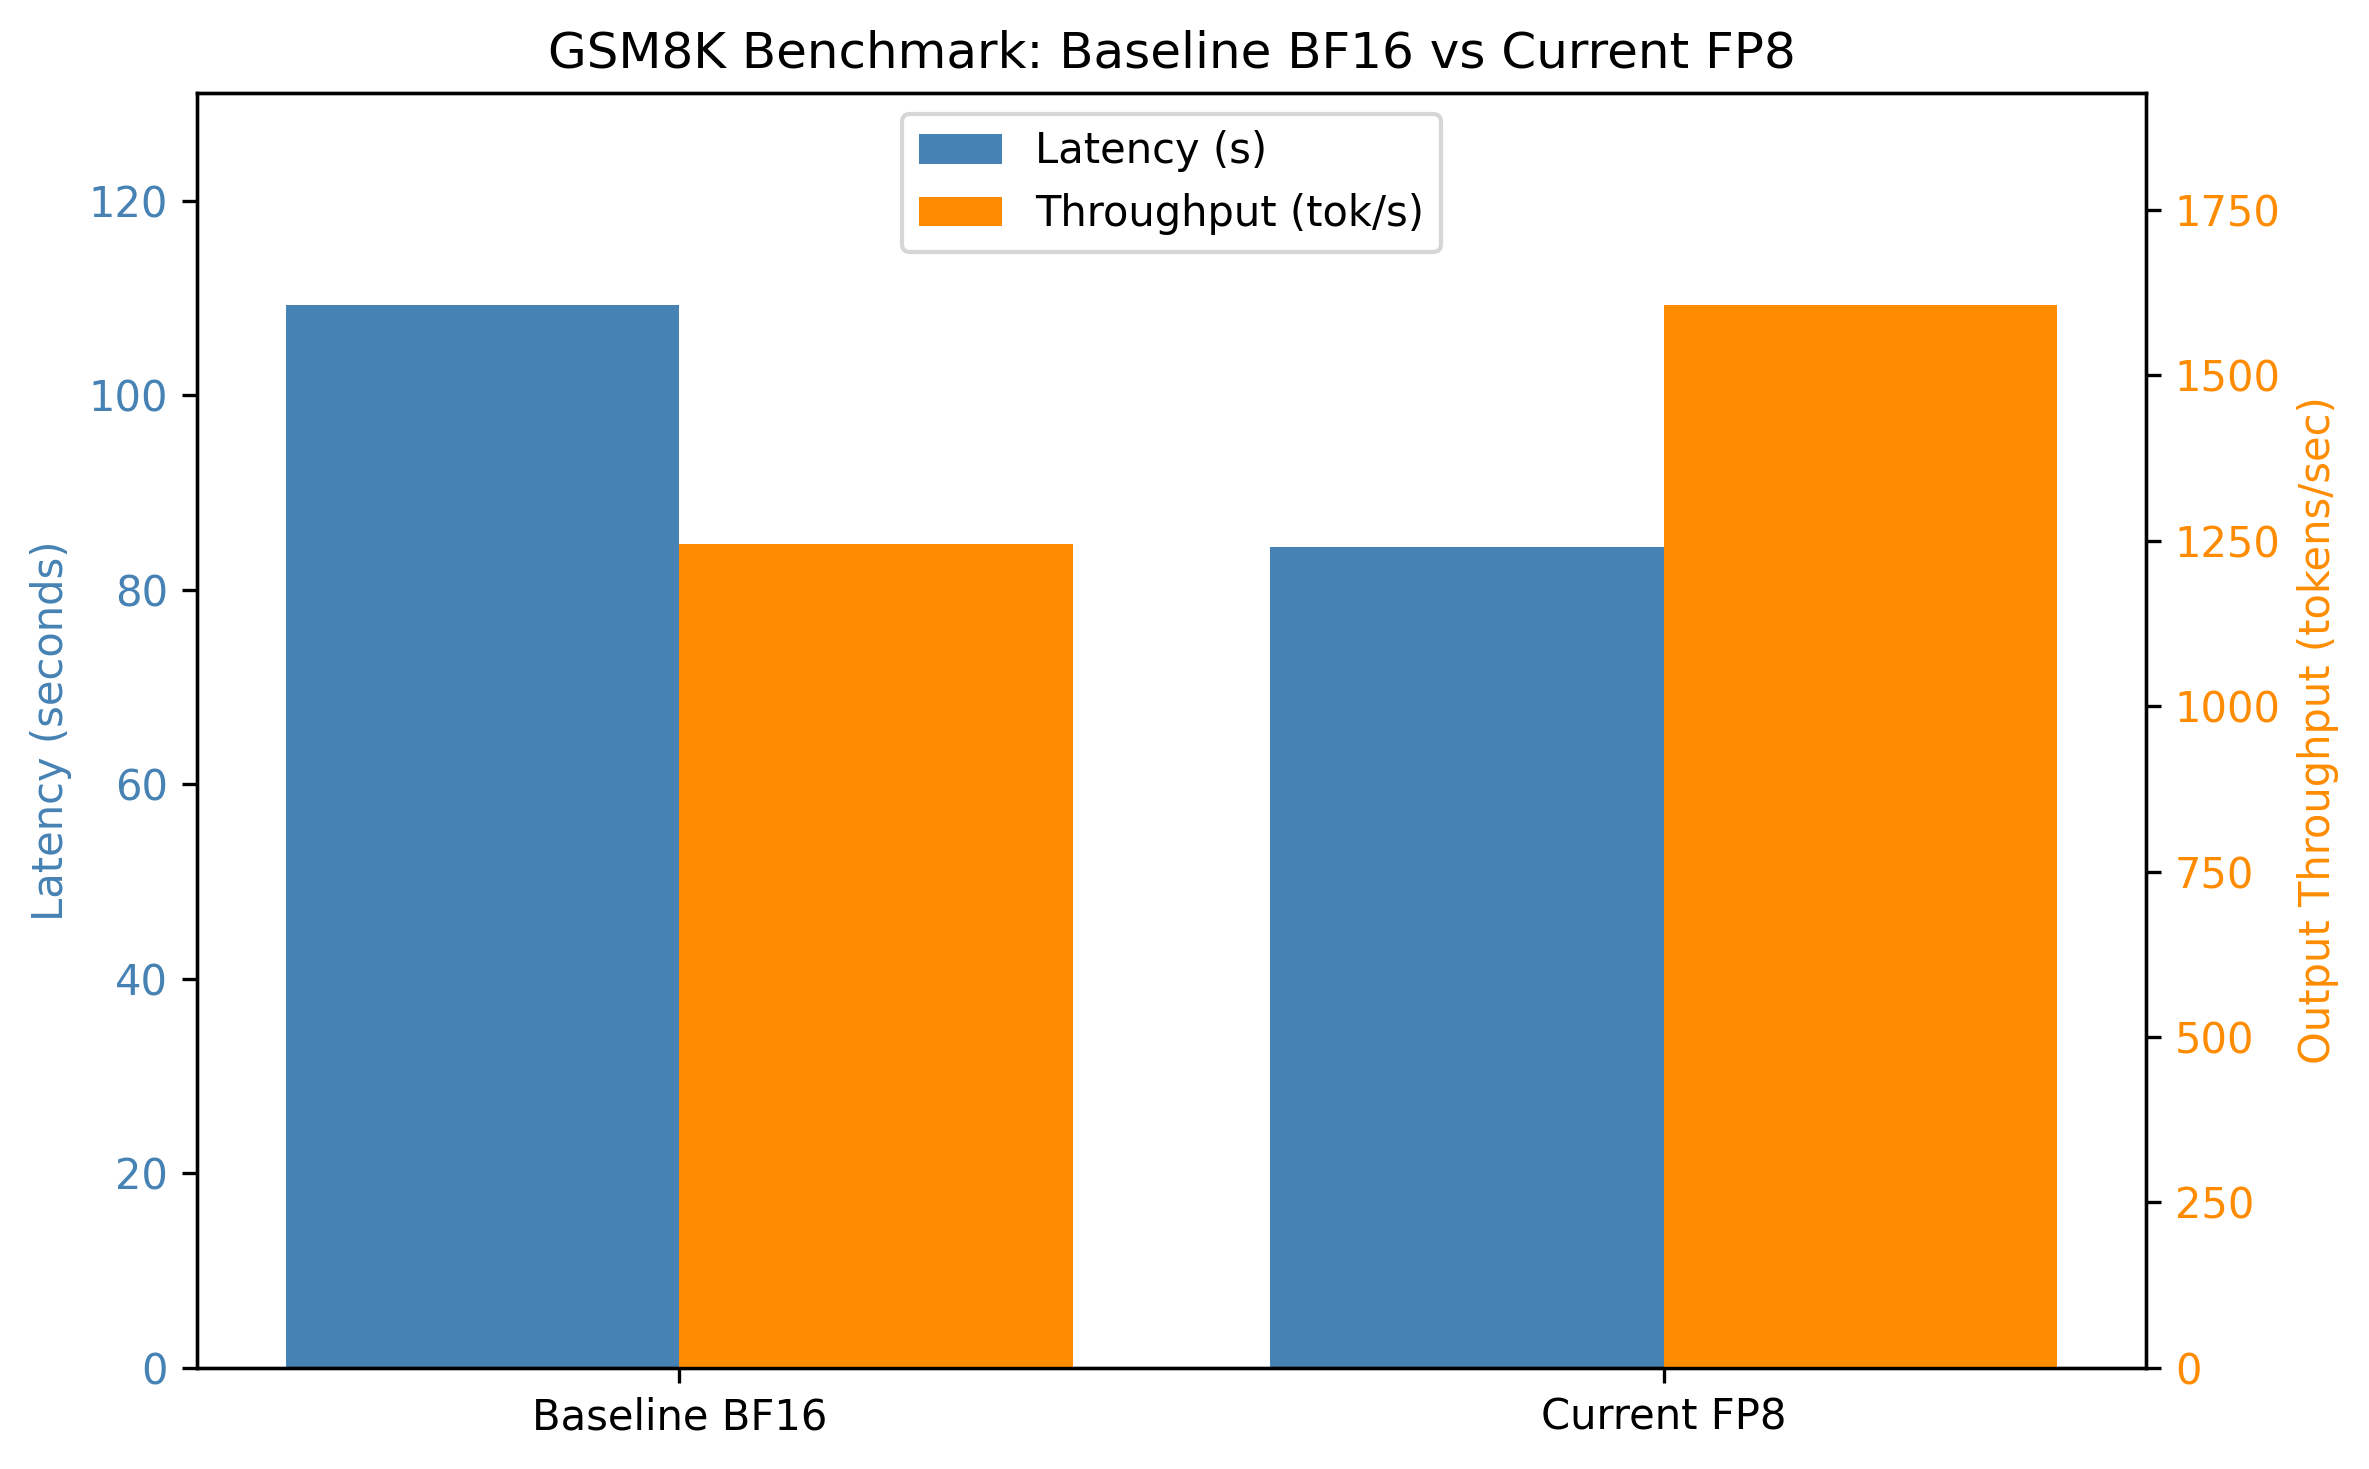
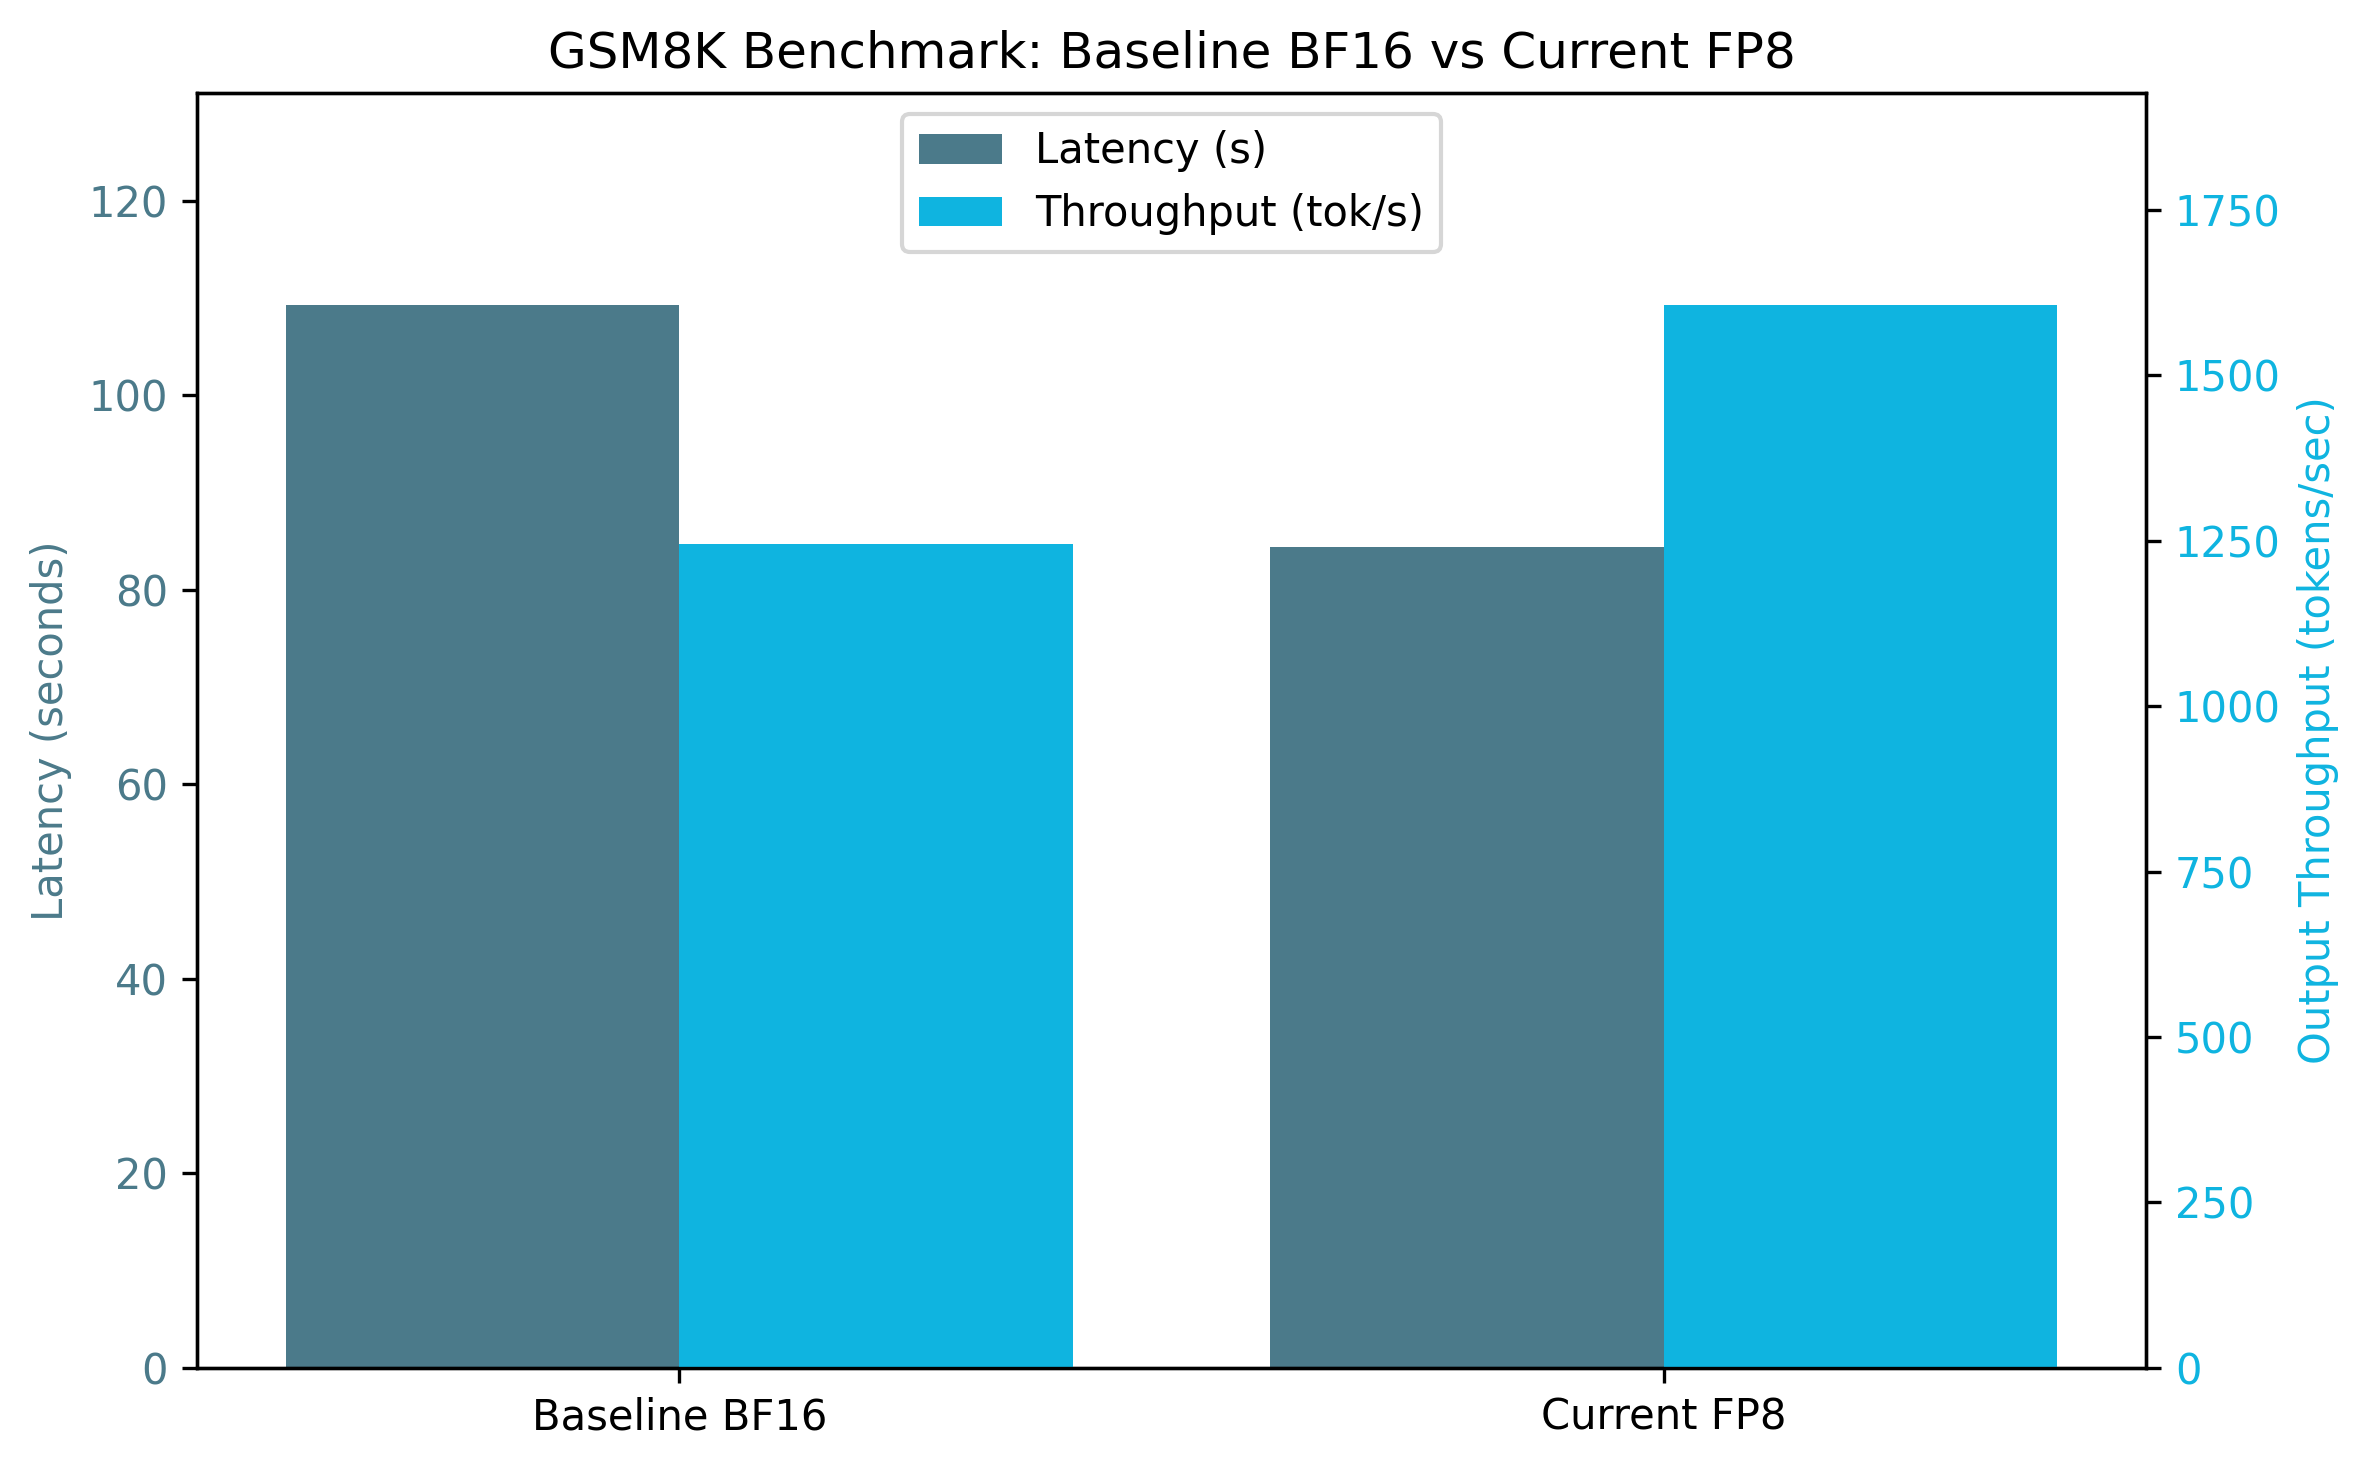
Update plot-script.py to use 2025 brand colors
- Added brand colors 2025 palette
- Updated all plots to use the new color scheme
- Regenerated all plot images with the new colors
- Set consistent style across all plots

🤖 Generated with [Claude Code](https://claude.ai/code)

diff --git a/deepseek/sglang_optimizations/plot-script.py b/deepseek/sglang_optimizations/plot-script.py
@@ -5,19 +5,53 @@ import pandas as pd
 
 # Configuration - Set to True for plots you want to generate
 CONFIG = {
-    "cuda_graph_benchmark": False,
-    "fp8_latency_comparison": False,
-    "speculative_serving": False,
-    "dp_attention": False,
+    "cuda_graph_benchmark": True,
+    "fp8_latency_comparison": True,
+    "speculative_serving": True,
+    "dp_attention": True,
     "overlap_scheduler": True,
-    "flashinfer_mla": False,
-    "fp8_vs_bf16": False,
-    "int8_gemm": False,
+    "flashinfer_mla": True,
+    "fp8_vs_bf16": True,
+    "int8_gemm": True,
     "fused_moe_latency": True
 }
 
-# Create images directory if it doesn't exist
-os.makedirs("images", exist_ok=True)
+# Create imgs directory if it doesn't exist
+os.makedirs("imgs", exist_ok=True)
+
+# Brand colors 2025
+BRAND_COLORS = {
+    "primary_main": "#4B7A8A",
+    "primary_dark": "#245866",
+    "primary_light": "#7FB1C3",
+    "info_main": "#0FB4E0",
+    "info_dark": "#0B8AAC",
+    "info_light": "#9BE4F8",
+    "success_main": "#13B91A",
+    "success_dark": "#009906",
+    "success_light": "#ADE6AF",
+    "warning_main": "#EB8C00",
+    "warning_dark": "#CC7700",
+    "warning_light": "#FFD494",
+    "error_main": "#FF4B1A",
+    "error_dark": "#D1350A",
+    "error_light": "#FFC3B3",
+    "grey_500": "#909090",
+    "grey_700": "#585858",
+    "grey_900": "#353535",
+}
+
+# Set style for all plots
+plt.rcParams['axes.prop_cycle'] = plt.cycler(color=[
+    BRAND_COLORS["primary_main"], 
+    BRAND_COLORS["info_main"],
+    BRAND_COLORS["success_main"],
+    BRAND_COLORS["warning_main"],
+    BRAND_COLORS["error_main"],
+    BRAND_COLORS["primary_dark"],
+    BRAND_COLORS["info_dark"],
+    BRAND_COLORS["success_dark"],
+])
 
 # Function to save figures
 def save_figure(fig, filename):
@@ -43,15 +77,15 @@ if CONFIG["cuda_graph_benchmark"]:
     fig, ax1 = plt.subplots(figsize=(10, 6))
 
     # Latency bars (left y-axis)
-    bar1 = ax1.bar(x - width/2, total_latency, width, color='steelblue', label='Total Latency')
-    ax1.set_ylabel('Latency (s)', color='steelblue')
-    ax1.tick_params(axis='y', labelcolor='steelblue')
+    bar1 = ax1.bar(x - width/2, total_latency, width, color=BRAND_COLORS["primary_main"], label='Total Latency')
+    ax1.set_ylabel('Latency (s)', color=BRAND_COLORS["primary_main"])
+    ax1.tick_params(axis='y', labelcolor=BRAND_COLORS["primary_main"])
 
     # Throughput bars (right y-axis)
     ax2 = ax1.twinx()
-    bar2 = ax2.bar(x + width/2, total_throughput, width, color='darkorange', label='Total Throughput')
-    ax2.set_ylabel('Throughput (tokens/sec)', color='darkorange')
-    ax2.tick_params(axis='y', labelcolor='darkorange')
+    bar2 = ax2.bar(x + width/2, total_throughput, width, color=BRAND_COLORS["info_main"], label='Total Throughput')
+    ax2.set_ylabel('Throughput (tokens/sec)', color=BRAND_COLORS["info_main"])
+    ax2.tick_params(axis='y', labelcolor=BRAND_COLORS["info_main"])
 
     # X-axis labels
     ax1.set_xticks(x)
@@ -90,12 +124,12 @@ if CONFIG["fp8_latency_comparison"]:
                                             sharex=True)
 
     # Top axis (large bar only)
-    ax_top.bar(x - width/2, bf16_latencies, width, label='BF16 Latency', color='steelblue')
-    ax_top.bar(x + width/2, fp8_latencies, width, label='FP8 Latency', color='darkorange')
+    ax_top.bar(x - width/2, bf16_latencies, width, label='BF16 Latency', color=BRAND_COLORS["primary_main"])
+    ax_top.bar(x + width/2, fp8_latencies, width, label='FP8 Latency', color=BRAND_COLORS["info_main"])
 
     # Bottom axis (zoomed in smaller bars)
-    ax_bottom.bar(x - width/2, bf16_latencies, width, color='steelblue')
-    ax_bottom.bar(x + width/2, fp8_latencies, width, color='darkorange')
+    ax_bottom.bar(x - width/2, bf16_latencies, width, color=BRAND_COLORS["primary_main"])
+    ax_bottom.bar(x + width/2, fp8_latencies, width, color=BRAND_COLORS["info_main"])
 
     # Set axis limits to break after the first bar
     ax_top.set_ylim(0.02, 0.065)       # Shows the large bar clearly
@@ -142,15 +176,15 @@ if CONFIG["speculative_serving"]:
     fig, ax1 = plt.subplots(figsize=(10, 6))
 
     # Plot latency (left Y-axis)
-    bars1 = ax1.bar(x - width/2, latency_ms, width, label='E2E Latency (ms)', color='steelblue')
-    ax1.set_ylabel('Latency (ms)', color='steelblue')
-    ax1.tick_params(axis='y', labelcolor='steelblue')
+    bars1 = ax1.bar(x - width/2, latency_ms, width, label='E2E Latency (ms)', color=BRAND_COLORS["primary_main"])
+    ax1.set_ylabel('Latency (ms)', color=BRAND_COLORS["primary_main"])
+    ax1.tick_params(axis='y', labelcolor=BRAND_COLORS["primary_main"])
 
     # Plot throughput (right Y-axis)
     ax2 = ax1.twinx()
-    bars2 = ax2.bar(x + width/2, throughput_tokps, width, label='Token Throughput (tok/s)', color='darkorange')
-    ax2.set_ylabel('Throughput (tokens/sec)', color='darkorange')
-    ax2.tick_params(axis='y', labelcolor='darkorange')
+    bars2 = ax2.bar(x + width/2, throughput_tokps, width, label='Token Throughput (tok/s)', color=BRAND_COLORS["info_main"])
+    ax2.set_ylabel('Throughput (tokens/sec)', color=BRAND_COLORS["info_main"])
+    ax2.tick_params(axis='y', labelcolor=BRAND_COLORS["info_main"])
 
     # X-axis labels
     ax1.set_xticks(x)
@@ -185,15 +219,15 @@ if CONFIG["dp_attention"]:
     fig, ax1 = plt.subplots(figsize=(12, 6))
 
     # Left Y-axis: Latency
-    bars1 = ax1.bar(x - width/2, latency_ms, width, label='E2E Latency (ms)', color='steelblue')
-    ax1.set_ylabel('Latency (ms)', color='steelblue')
-    ax1.tick_params(axis='y', labelcolor='steelblue')
+    bars1 = ax1.bar(x - width/2, latency_ms, width, label='E2E Latency (ms)', color=BRAND_COLORS["primary_main"])
+    ax1.set_ylabel('Latency (ms)', color=BRAND_COLORS["primary_main"])
+    ax1.tick_params(axis='y', labelcolor=BRAND_COLORS["primary_main"])
 
     # Right Y-axis: Throughput
     ax2 = ax1.twinx()
-    bars2 = ax2.bar(x + width/2, throughput_tokps, width, label='Token Throughput (tok/s)', color='darkorange')
-    ax2.set_ylabel('Throughput (tokens/sec)', color='darkorange')
-    ax2.tick_params(axis='y', labelcolor='darkorange')
+    bars2 = ax2.bar(x + width/2, throughput_tokps, width, label='Token Throughput (tok/s)', color=BRAND_COLORS["info_main"])
+    ax2.set_ylabel('Throughput (tokens/sec)', color=BRAND_COLORS["info_main"])
+    ax2.tick_params(axis='y', labelcolor=BRAND_COLORS["info_main"])
 
     # X-axis labels
     ax1.set_xticks(x)
@@ -226,12 +260,12 @@ if CONFIG['overlap_scheduler']:
                                             sharex=True)
 
     # Top axis (large bar only)
-    ax_top.bar(x - width/2, standard_latency, width, label='Standard Latency', color='steelblue')
-    ax_top.bar(x + width/2, overlap_latency, width, label='Overlap Scheduler Latency', color='darkorange')
+    ax_top.bar(x - width/2, standard_latency, width, label='Standard Latency', color=BRAND_COLORS["primary_main"])
+    ax_top.bar(x + width/2, overlap_latency, width, label='Overlap Scheduler Latency', color=BRAND_COLORS["info_main"])
 
     # Bottom axis (zoomed in smaller bars)
-    ax_bottom.bar(x - width/2, standard_latency, width, color='steelblue')
-    ax_bottom.bar(x + width/2, overlap_latency, width, color='darkorange')
+    ax_bottom.bar(x - width/2, standard_latency, width, color=BRAND_COLORS["primary_main"])
+    ax_bottom.bar(x + width/2, overlap_latency, width, color=BRAND_COLORS["info_main"])
 
     # Set axis limits to break after the first bar
     ax_top.set_ylim(500000, 1100000)       # Shows the large bar clearly
@@ -278,15 +312,15 @@ if CONFIG["flashinfer_mla"]:
     fig, ax1 = plt.subplots(figsize=(8, 5))
 
     # Latency (left axis)
-    bars1 = ax1.bar(x - width/2, latency_sec, width, label='Latency (s)', color='steelblue')
-    ax1.set_ylabel('Latency (seconds)', color='steelblue')
-    ax1.tick_params(axis='y', labelcolor='steelblue')
+    bars1 = ax1.bar(x - width/2, latency_sec, width, label='Latency (s)', color=BRAND_COLORS["primary_main"])
+    ax1.set_ylabel('Latency (seconds)', color=BRAND_COLORS["primary_main"])
+    ax1.tick_params(axis='y', labelcolor=BRAND_COLORS["primary_main"])
 
     # Throughput (right axis)
     ax2 = ax1.twinx()
-    bars2 = ax2.bar(x + width/2, throughput_tokps, width, label='Throughput (tok/s)', color='darkorange')
-    ax2.set_ylabel('Output Throughput (tokens/sec)', color='darkorange')
-    ax2.tick_params(axis='y', labelcolor='darkorange')
+    bars2 = ax2.bar(x + width/2, throughput_tokps, width, label='Throughput (tok/s)', color=BRAND_COLORS["info_main"])
+    ax2.set_ylabel('Output Throughput (tokens/sec)', color=BRAND_COLORS["info_main"])
+    ax2.tick_params(axis='y', labelcolor=BRAND_COLORS["info_main"])
 
     # X-axis and title
     ax1.set_xticks(x)
@@ -320,15 +354,15 @@ if CONFIG["fp8_vs_bf16"]:
     fig, ax1 = plt.subplots(figsize=(8, 5))
 
     # Latency (left axis)
-    bars1 = ax1.bar(x - width/2, latency_sec, width, label='Latency (s)', color='steelblue')
-    ax1.set_ylabel('Latency (seconds)', color='steelblue')
-    ax1.tick_params(axis='y', labelcolor='steelblue')
+    bars1 = ax1.bar(x - width/2, latency_sec, width, label='Latency (s)', color=BRAND_COLORS["primary_main"])
+    ax1.set_ylabel('Latency (seconds)', color=BRAND_COLORS["primary_main"])
+    ax1.tick_params(axis='y', labelcolor=BRAND_COLORS["primary_main"])
 
     # Throughput (right axis)
     ax2 = ax1.twinx()
-    bars2 = ax2.bar(x + width/2, throughput_tokps, width, label='Throughput (tok/s)', color='darkorange')
-    ax2.set_ylabel('Output Throughput (tokens/sec)', color='darkorange')
-    ax2.tick_params(axis='y', labelcolor='darkorange')
+    bars2 = ax2.bar(x + width/2, throughput_tokps, width, label='Throughput (tok/s)', color=BRAND_COLORS["info_main"])
+    ax2.set_ylabel('Output Throughput (tokens/sec)', color=BRAND_COLORS["info_main"])
+    ax2.tick_params(axis='y', labelcolor=BRAND_COLORS["info_main"])
 
     # X-axis and title
     ax1.set_xticks(x)
@@ -390,8 +424,8 @@ if CONFIG["int8_gemm"]:
 
     for ax, shape in zip(axes, shapes_to_plot):
         subset = df[df["Shape"] == shape]
-        ax.plot(subset["Batch Size"], subset["vLLM Int8 GEMM (GB/s)"], marker='o', label="vLLM")
-        ax.plot(subset["Batch Size"], subset["SGL-Kernel Int8 GEMM (GB/s)"], marker='s', label="SGL-Kernel")
+        ax.plot(subset["Batch Size"], subset["vLLM Int8 GEMM (GB/s)"], marker='o', label="vLLM", color=BRAND_COLORS["primary_main"], linewidth=2)
+        ax.plot(subset["Batch Size"], subset["SGL-Kernel Int8 GEMM (GB/s)"], marker='s', label="SGL-Kernel", color=BRAND_COLORS["info_main"], linewidth=2)
         ax.set_title(f"INT8 GEMM Throughput - {shape}")
         ax.set_xlabel("Batch Size")
         ax.set_ylabel("Throughput (GB/s)")
@@ -409,9 +443,9 @@ if CONFIG["fused_moe_latency"]:
     fig, ax = plt.subplots(figsize=(12, 6))
 
     ax.plot(fused_moe_df["batch_size"], fused_moe_df["vllm_fused_moe_triton"],
-            label="vLLM Fused MoE (Triton)", color="steelblue", linewidth=4)
+            label="vLLM Fused MoE (Triton)", color=BRAND_COLORS["primary_main"], linewidth=4)
     ax.plot(fused_moe_df["batch_size"], fused_moe_df["sglang_fused_moe_triton"],
-            label="SGLang Fused MoE (Triton)", color="darkorange", linewidth=4)
+            label="SGLang Fused MoE (Triton)", color=BRAND_COLORS["info_main"], linewidth=4)
 
     ax.set_title("Fused MoE Latency: vLLM vs SGLang (Triton Kernels)")
     ax.set_xlabel("Batch Size")
